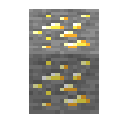
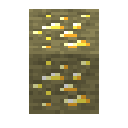
Nuevos niveles

diff --git a/server/mapas.js b/server/mapas.js
@@ -13,6 +13,7 @@ class Mapa {
     this.siguienteNivel = siguienteNivel;
     this.coords = coords;
     this.tutorial = false;
+    this.oscurecer = false;
   }
 }
 
@@ -128,7 +129,88 @@ module.exports = {
         "6,7": ITEMS.ItemPlatoCrafteo,
       };
 
-      super(casillas, recetas, cofres, items, 240, 20000, 120, [540, 260], false);
+      super(casillas, recetas, cofres, items, 240, 20000, 120, [540, 260], module.exports.MapaFundicion);
+    }
+  },
+
+  MapaFundicion: class MapaFundicion extends Mapa {
+    constructor() {
+      let casillas = [
+        [1,1,1,1,1,1,1,1,1,1,1,1,1,1,1,1,1,1,1,1],
+        [1,1,1,1,1,1,1,1,1,1,1,1,1,1,1,1,1,1,1,1],
+        [1,1,1,1,7,7,7,7,2,8,2,8,2,8,4,10,1,1,1,1],
+        [1,1,1,1,0,0,0,0,2,0,0,0,0,0,0,0,1,1,1,1],
+        [1,1,1,1,0,0,0,0,2,0,0,0,0,0,0,0,1,1,1,1],
+        [1,1,1,1,3,0,2,2,2,2,2,2,2,2,0,2,1,1,1,1],
+        [1,1,1,1,2,0,0,0,0,0,0,0,0,0,0,2,1,1,1,1],
+        [1,1,1,1,2,0,0,0,0,0,0,0,0,0,0,2,1,1,1,1],
+        [1,1,1,1,2,0,0,2,0,0,0,0,0,0,0,2,1,1,1,1],
+        [1,1,1,1,2,5,5,2,2,2,2,2,2,6,9,2,1,1,1,1],
+        [1,1,1,1,1,1,1,1,1,1,1,1,1,1,1,1,1,1,1,1],
+        [1,1,1,1,1,1,1,1,1,1,1,1,1,1,1,1,1,1,1,1]
+      ];
+
+      let recetas = [
+        RECETAS.RecetaEspadaHierro,
+        RECETAS.RecetaHachaOro,
+        RECETAS.RecetaEscudo,
+        RECETAS.RecetaMinecart,
+      ];
+
+      let cofres = {
+        "9,2": ITEMS.ItemTronco,
+        "11,2": ITEMS.ItemMenaOro,
+        "13,2": ITEMS.ItemMenaHierro,
+      };
+
+      let items = {
+        "8,9": ITEMS.ItemPlatoCrafteo,
+        "9,9": ITEMS.ItemPlatoCrafteo,
+        "10,9": ITEMS.ItemPlatoCrafteo,
+      };
+
+      super(casillas, recetas, cofres, items, 240, 10000, 160, [575, 240], module.exports.MapaOscuro);
+    }
+  },
+
+  MapaOscuro: class MapaOscuro extends Mapa {
+    constructor() {
+      let casillas = [
+        [1,1,1,1,1,1,1,1,1,1,1,1,1,1,1,1,1,1,1,1],
+      	[1,1,1,1,1,1,1,1,1,1,1,1,1,1,1,1,1,1,1,1],
+      	[1,1,1,1,2,2,8,2,8,2,2,7,7,7,7,2,1,1,1,1],
+      	[1,1,1,1,2,0,0,0,0,0,2,0,0,0,0,2,1,1,1,1],
+      	[1,1,1,1,2,0,0,0,0,0,2,0,2,2,0,2,1,1,1,1],
+      	[1,1,1,1,2,2,2,2,0,2,2,2,2,0,0,2,1,1,1,1],
+      	[1,1,1,1,3,0,0,0,0,0,2,0,0,0,0,2,1,1,1,1],
+      	[1,1,1,1,2,2,0,2,2,2,2,0,0,0,0,2,1,1,1,1],
+      	[1,1,1,1,2,0,0,0,0,0,0,0,2,0,0,2,1,1,1,1],
+      	[1,1,1,1,2,5,2,5,2,10,4,2,2,6,9,2,1,1,1,1],
+      	[1,1,1,1,1,1,1,1,1,1,1,1,1,1,1,1,1,1,1,1],
+      	[1,1,1,1,1,1,1,1,1,1,1,1,1,1,1,1,1,1,1,1]
+      ];
+
+      let recetas = [
+        RECETAS.RecetaAntorcha,
+        RECETAS.RecetaAntorcha,
+        RECETAS.RecetaAntorcha,
+        RECETAS.RecetaMinecart,
+      ];
+
+      let cofres = {
+        "6,2": ITEMS.ItemTronco,
+        "8,2": ITEMS.ItemMenaHierro,
+      };
+
+      let items = {
+        "5,5": ITEMS.ItemPlatoCrafteo,
+        "6,5": ITEMS.ItemPlatoCrafteo,
+        "7,5": ITEMS.ItemPlatoCrafteo,
+      };
+
+      super(casillas, recetas, cofres, items, 240, 20000, 160, [540, 260], false);
+
+      this.oscurecer = true;
     }
   },
 };

diff --git a/public/js/scenes/mundo.js b/public/js/scenes/mundo.js
@@ -263,6 +263,27 @@ class SceneMundo extends Phaser.Scene {
       }, 100);
 
       this.scene.get('hud').comenzarTutorial(this);
+
+      if(this.game.oscurecer) {
+        this.game.ticksOscuro = 0;
+        this.time.addEvent({
+          delay: 5000,
+          loop: true,
+          callback: function() {
+            if(self.game.oscuro) {
+              self.game.oscuro = false;
+              self.cameras.main.fadeIn(1000);
+            } else {
+              self.game.ticksOscuro++;
+              if(self.game.ticksOscuro >= 2) {
+                self.game.ticksOscuro = 0;
+                self.game.oscuro = true;
+                self.cameras.main.fadeOut(1000);
+              }
+            }
+          }
+        });
+      }
     }
 
     update() {

diff --git a/server/receta.js b/server/receta.js
@@ -115,5 +115,23 @@ module.exports = {
         new ItemReceta('carbon', false)
       ]
     }
-  }
+  },
+
+  RecetaMinecart: class RecetaMinecart extends Receta {
+    constructor(id) {
+      super(id, 'minecart', 120, 25);
+
+      this.items = [
+        new ItemReceta('mena_hierro', 'fundir'),
+        new ItemReceta('mena_hierro', 'fundir'),
+        new ItemReceta('mena_hierro', 'fundir'),
+      ];
+
+      this.itemsFinales = [
+        new ItemReceta('lingote_hierro', false),
+        new ItemReceta('lingote_hierro', false),
+        new ItemReceta('lingote_hierro', false),
+      ]
+    }
+  },
 }

diff --git a/public/js/scenes/finTutorial.js b/public/js/scenes/finTutorial.js
@@ -18,10 +18,13 @@ class SceneFinTutorial extends Phaser.Scene {
     this.add.text(pw(50), ph(50), "Dale a salir y juega de nuevo para entrar a un nivel de verdad")
       .setFontSize(24).setFontFamily('Verdana').setOrigin(0.5);
 
+    this.add.text(pw(50), ph(60), "El juego es más divertido con amigos. Terminad el tutorial todos y dadle a la vez a jugar para ir juntos")
+      .setFontSize(18).setFontFamily('Verdana').setOrigin(0.5);
+
     let self = this;
 
     let x = pw(50);
-    let y = ph(70);
+    let y = ph(80);
 
     let boton = this.add.container(x, y);
 

diff --git a/server/instancia.js b/server/instancia.js
@@ -17,6 +17,7 @@ module.exports = class Instancia {
     this.sockets = {};
     this.recetasTimers = {};
     this.timers = [];
+    this.oscurecer = mapa.oscurecer;
     this.puntos = 0;
     this.puntosMinimos = mapa.puntosMinimos;
     this.siguienteNivel = mapa.siguienteNivel;
@@ -263,6 +264,7 @@ module.exports = class Instancia {
       this.puntos,
       this.fechaCreacion,
       this.tiempoMax,
+      this.oscurecer,
     ]);
 
     setTimeout(function() {

diff --git a/public/js/item.js b/public/js/item.js
@@ -22,6 +22,14 @@ function itemByNombre(nombre) {
       return ItemMenaHierro;
     case 'lingote_hierro':
       return ItemLingoteHierro;
+    case 'mena_oro':
+      return ItemMenaOro;
+    case 'lingote_oro':
+      return ItemLingoteOro;
+    case 'bloque_carbon':
+      return ItemBloqueCarbon;
+    case 'carbon':
+      return ItemCarbon;
   }
 }
 

diff --git a/public/js/scenes/precarga.js b/public/js/scenes/precarga.js
@@ -80,6 +80,7 @@ class ScenePrecarga extends Phaser.Scene {
     this.load.image('antorcha', 'res/antorcha.png');
     this.load.image('bloque_carbon', 'res/bloque_carbon.png');
     this.load.image('carbon', 'res/carbon.png');
+    this.load.image('minecart', 'res/minecart.png');
 
     //items finales
     this.load.image('arco', 'res/arco.png');

diff --git a/public/js/scenes/menu_principal.js b/public/js/scenes/menu_principal.js
@@ -22,6 +22,7 @@ class SceneMenuPrincipal extends Phaser.Scene {
       self.game.puntos = datos[5];
       self.game.fechaCreacion = new Date(datos[6]);
       self.game.tiempoMax = datos[7];
+      self.game.oscurecer = datos[8];
       self.scene.start('scene_mundo');
     });
   }

diff --git a/server.js b/server.js
@@ -106,7 +106,7 @@ io.on('connection', function(socket) {
       }
     }
 
-    mapaClase = MAPA.MapaFacil;
+    mapaClase = MAPA.MapaOscuro;
     if(tutorial) {
       mapaClase = MAPA.MapaTutorial;
     }
